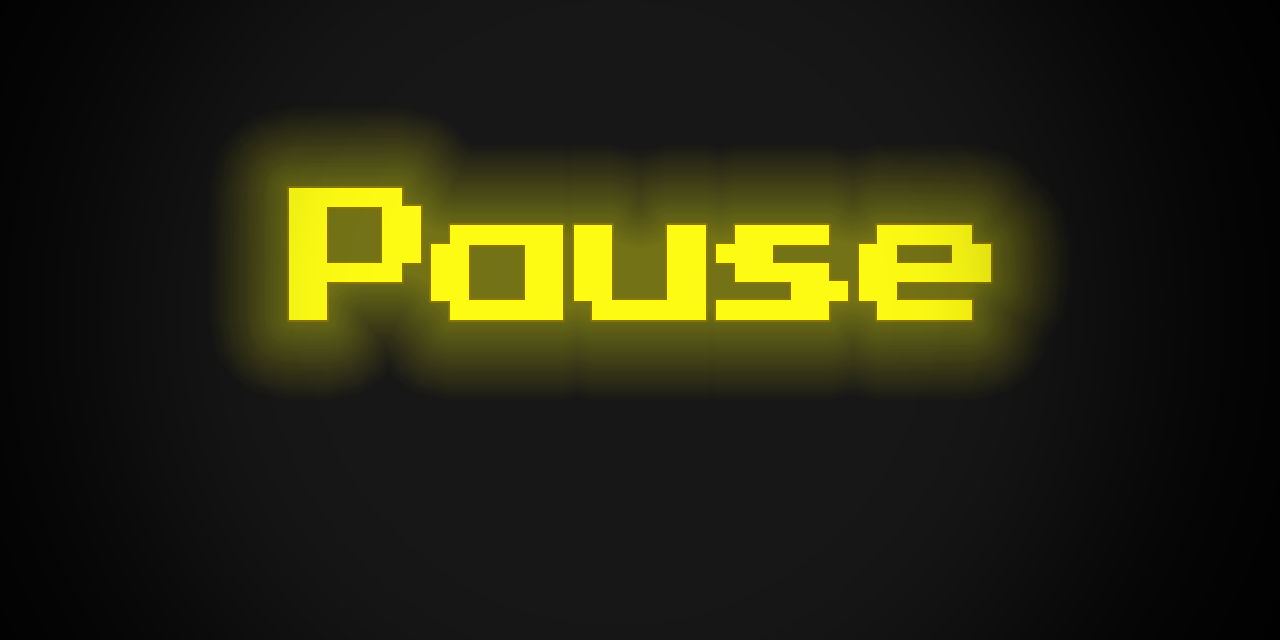
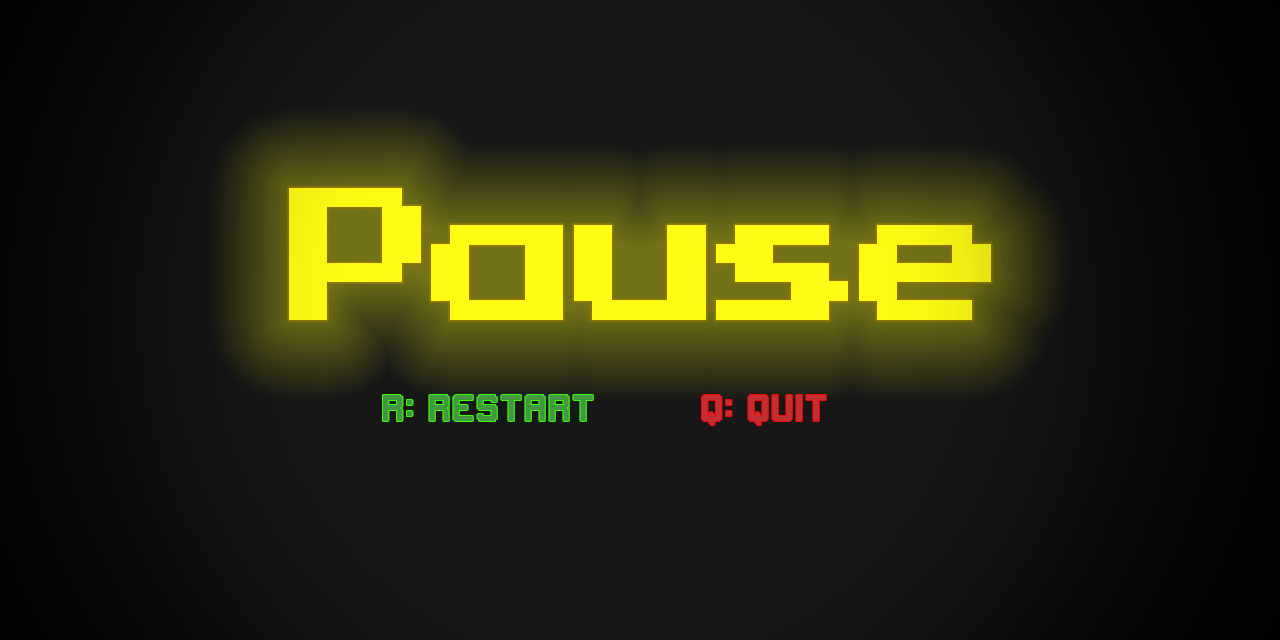
Alpha of the game

Changed region(s): [[0.2812, 0.5938, 0.4688, 0.6562], [0.5312, 0.5938, 0.6562, 0.6562]]

diff --git a/js/game_engine.js b/js/game_engine.js
@@ -55,6 +55,10 @@ class GameEngine {
             this.editPause();
             this.game_paused = !this.game_paused;
 
+        } else if ( (key == "q" || key == "Q") && this.game_paused) {
+            window.location.href = "https://www.youtube.com/watch?v=aKCFbZhWNW0";
+        } else if ( (key == "r" || key == "R") && this.game_paused) {
+            location.reload();
         }
 
         if (this.gameWon) {
@@ -227,7 +231,7 @@ class GameEngine {
 
             document.getElementById("pauseSound").play();
 
-            pause.setAttribute("href", "../assets/pause.png");
+            pause.setAttribute("href", "assets/pause.png");
             pause.setAttribute("x", 0);
             pause.id = "pause";
             pause.setAttribute("y", 0);
@@ -255,7 +259,7 @@ class GameEngine {
         document.getElementById("endSound").play();
 
         //  Attributes win (when winning the game)
-        win.setAttribute("href", "../assets/win.png");
+        win.setAttribute("href", "assets/win.png");
         win.setAttribute("x", 0);
         win.id = "win";
         win.setAttribute("y", 0);

diff --git a/js/player.js b/js/player.js
@@ -9,7 +9,7 @@ export class Player {
         this.position_y = 576;
 
         //  Attributes player_hover_left (left arrow inside the game)
-        this.player_hover_left.setAttribute("href", "../assets/hoverplayer_left.gif");
+        this.player_hover_left.setAttribute("href", "assets/hoverplayer_left.gif");
         this.player_hover_left.setAttribute("x", 492);
         this.player_hover_left.setAttribute("y", this.position_y);
         this.player_hover_left.setAttribute("width", 64);
@@ -18,7 +18,7 @@ export class Player {
 
 
         //  Attributes for player_hover_right (right arrow inside the game)
-        this.player_hover_right.setAttribute("href", "../assets/hoverplayer_right.gif");
+        this.player_hover_right.setAttribute("href", "assets/hoverplayer_right.gif");
         this.player_hover_right.setAttribute("x", 724);
         this.player_hover_right.setAttribute("y", this.position_y);
         this.player_hover_right.setAttribute("width", 64);
